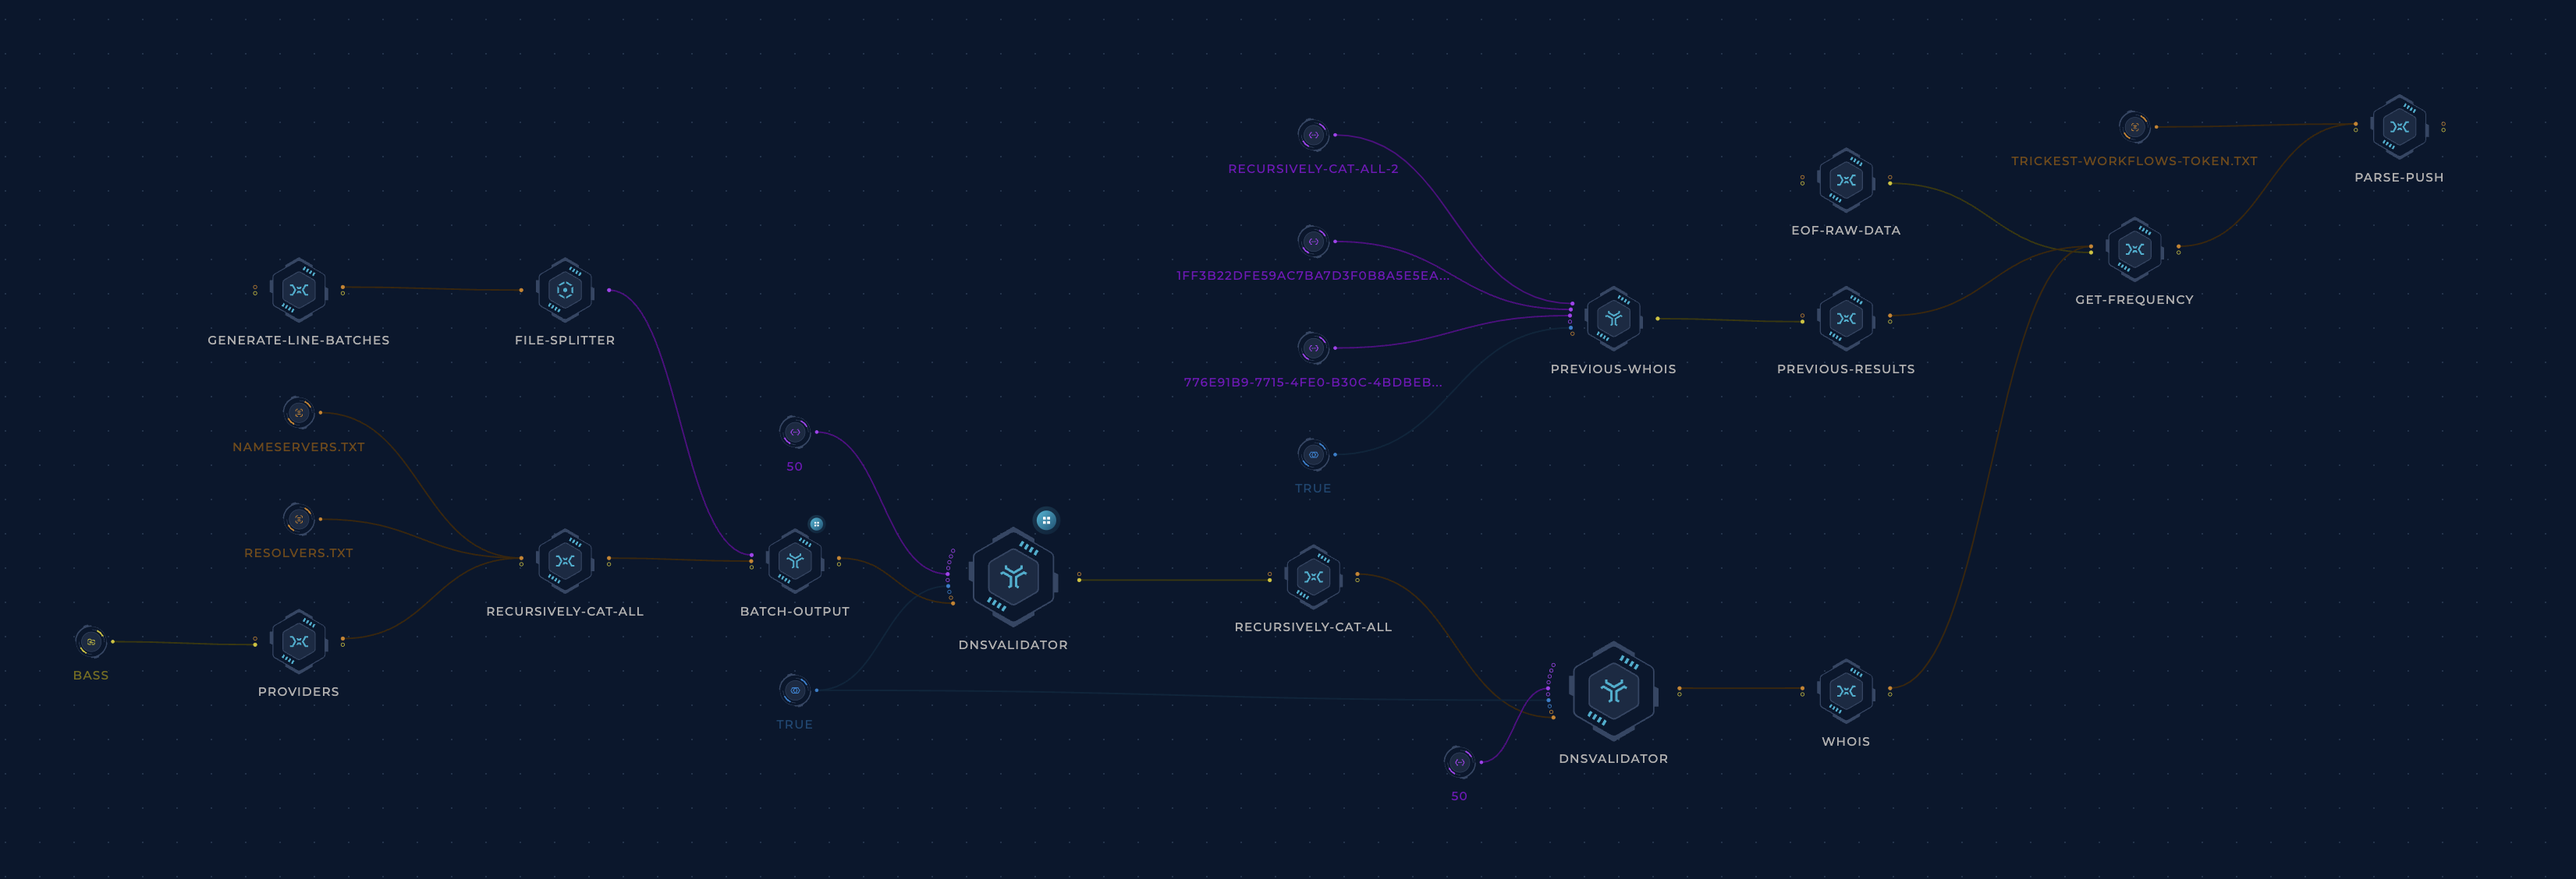
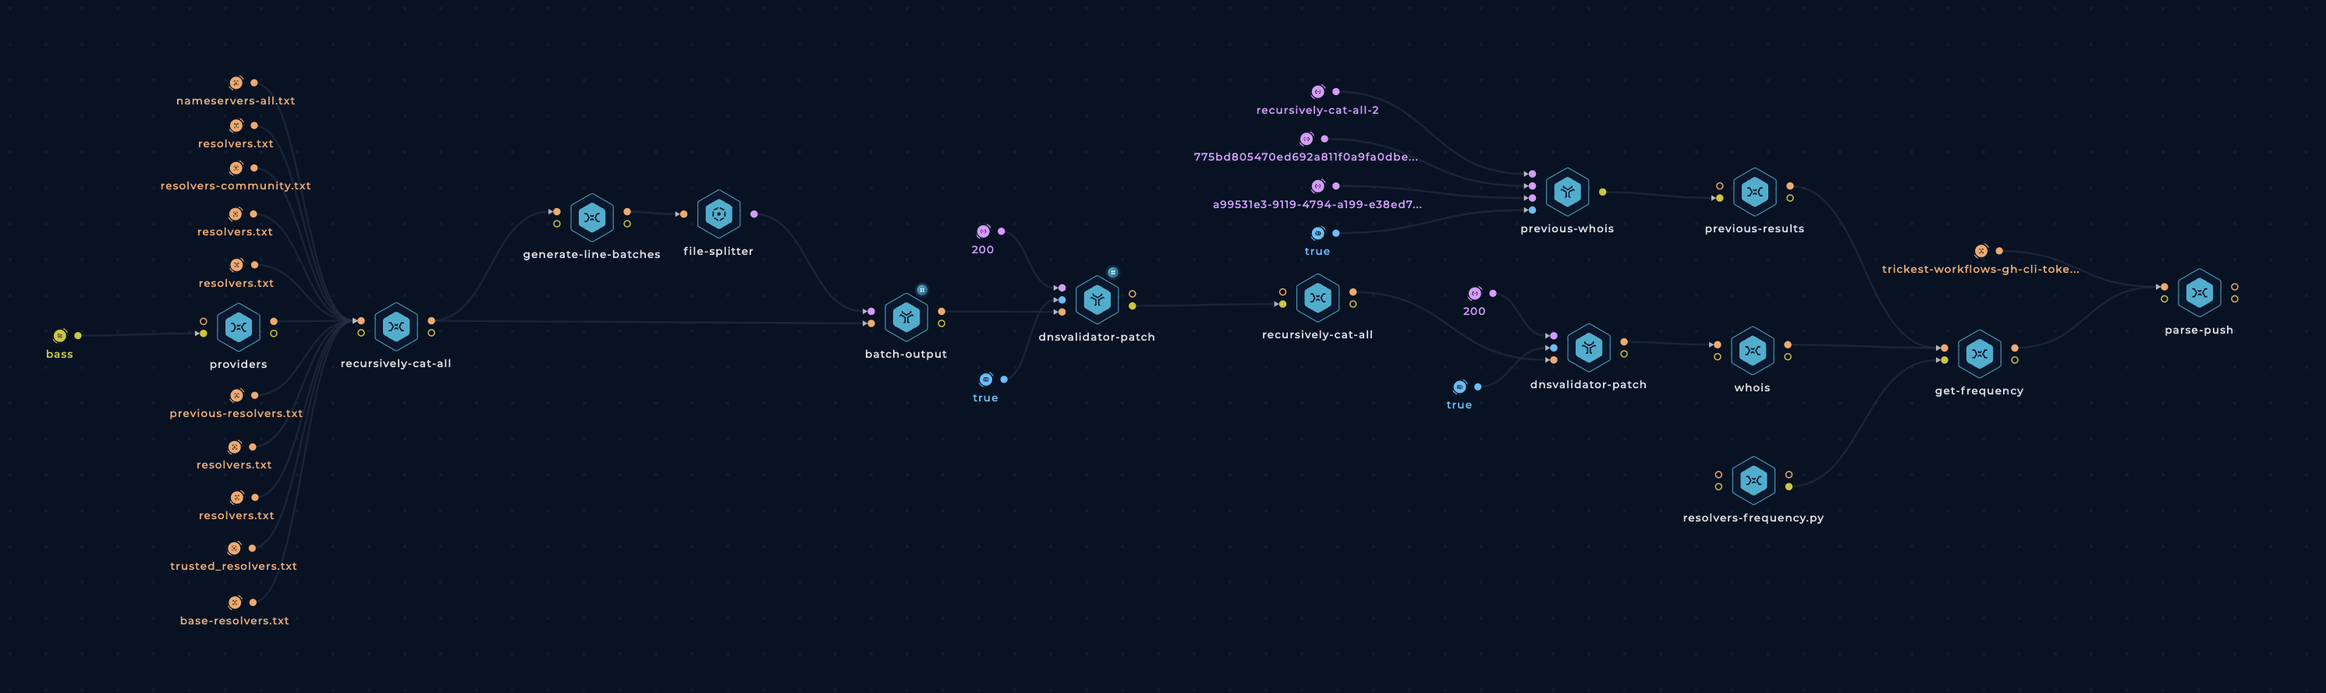
Update README.md w/ new workflow

diff --git a/README.md b/README.md
@@ -14,11 +14,17 @@ A [Trickest](https://trickest.com) workflow creates an initial dataset of resolv
 
 ![Trickest Workflow](resolvers.png "Trickest Workflow - Resolvers")
 ### TB; DZ (Too big; didn't zoom)
-- We collect the initial dataset from four sources:
+- We collect the initial dataset from ten sources:
   - [The Public DNS Server List](https://public-dns.info/nameservers.txt)
   - A list of provider DNS servers collected from [bass](https://github.com/Abss0x7tbh/bass/tree/master/resolvers) (Thanks, [Abss0x7tbh](https://github.com/Abss0x7tbh)).
-  - A community-maintained list of resolvers on [janmasarik/resolvers](https://github.com/janmasarik/resolvers) (Thanks, [janmasarik](https://github.com/janmasarik)).
-  - A list of DNS servers contributed by our community in [resolvers-community.txt](resolvers-community.txt).
+  - [janmasarik/resolvers](https://github.com/janmasarik/resolvers) (Thanks, [janmasarik](https://github.com/janmasarik)).
+  - A list of DNS servers contributed by our community in [resolvers-community.txt](resolvers-community.txt) (Thanks, Trickest community!).
+  - [proabiral/Fresh-Resolvers](https://github.com/proabiral/Fresh-Resolvers) (Thanks, [proabiral](https://github.com/proabiral)).
+  - [geraldino2/jart](https://github.com/geraldino2/jart) (Thanks, [geraldino2](https://github.com/geraldino2)).
+  - [cxosmo/dns-resolvers](https://github.com/cxosmo/dns-resolvers) (Thanks, [cxosmo](https://github.com/cxosmo)).
+  - [Massdns](https://github.com/blechschmidt/massdns)'s resolvers list (Thanks, [blechschmidt](https://github.com/blechschmidt)).
+  - [zeroc00I/test_github_action](https://github.com/zeroc00I/test_github_action) (Thanks, [zeroc00I](https://github.com/zeroc00I)).
+  - [Auto_Wordlists](https://github.com/carlospolop/Auto_Wordlists)'s resolvers list (Thanks, [carlospolop](https://github.com/carlospolop)).
 - This mega list of resolvers is then `sort -u`d and split up into smaller chunks.
 - Multiple instances of [dnsvalidator](https://github.com/vortexau/dnsvalidator) are created to validate the resolver lists in parallel (Huge thanks to [vortexau](https://github.com/vortexau) and [codingo](https://github.com/codingo)).
 - Then we run another round of [dnsvalidator](https://github.com/vortexau/dnsvalidator) to weed out any false positives that survived the previous step.
